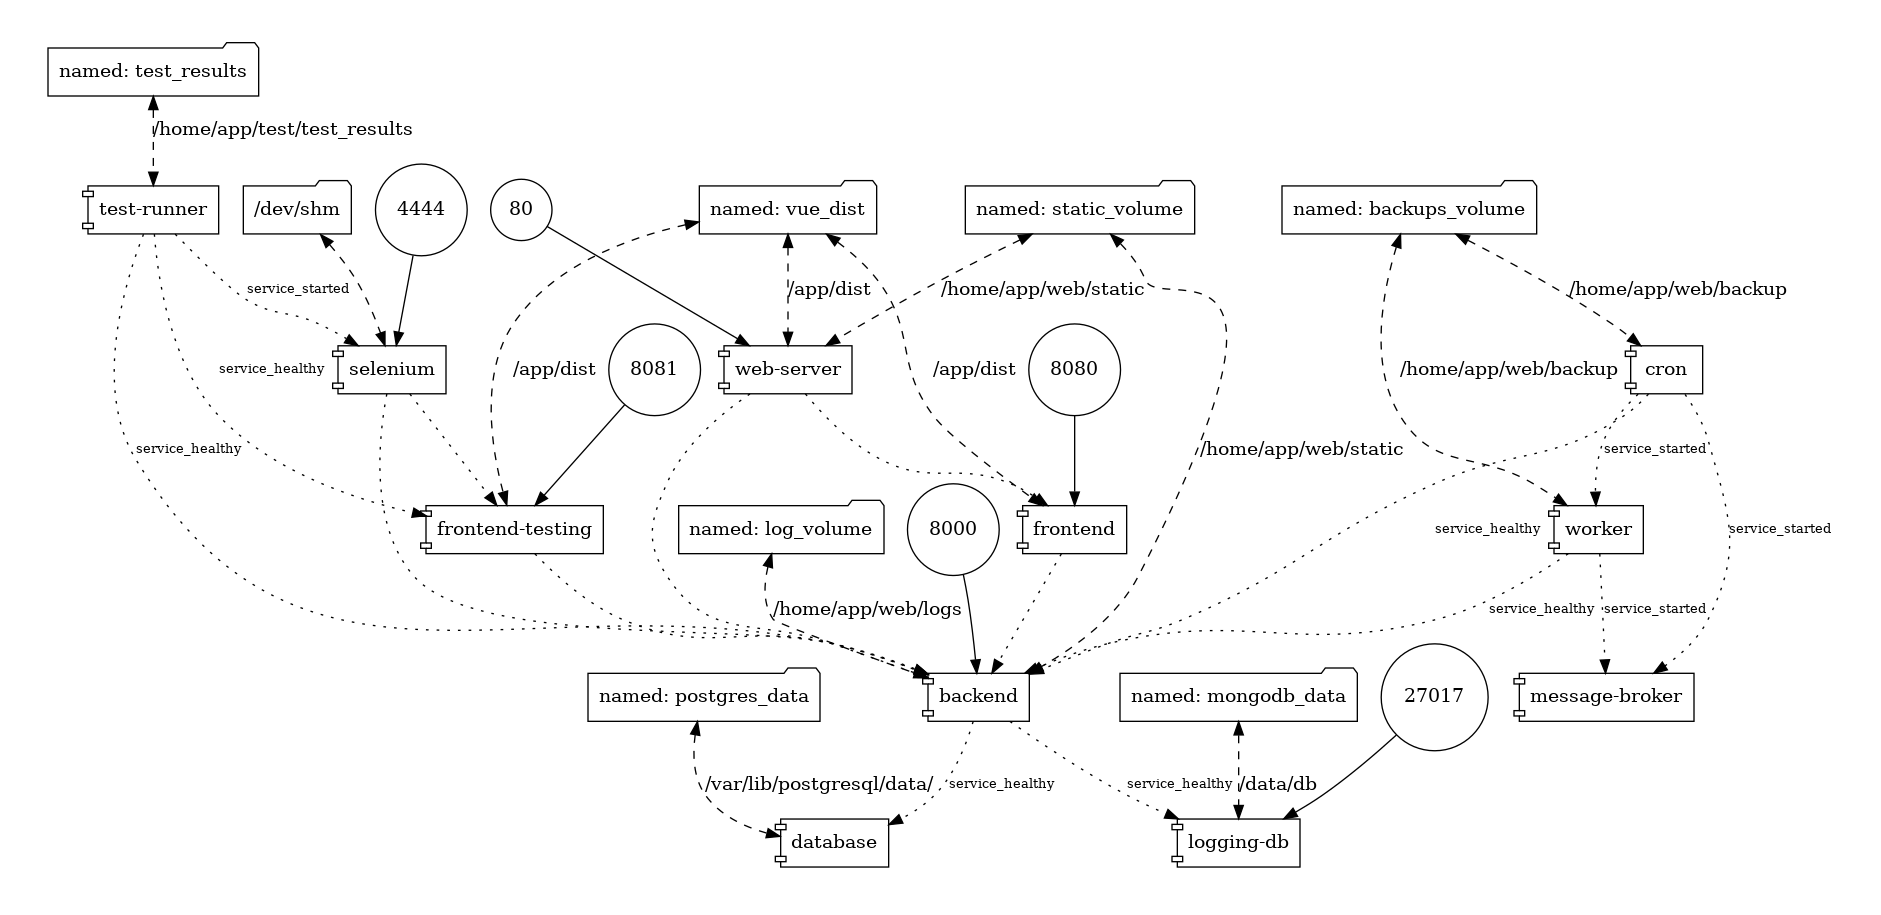
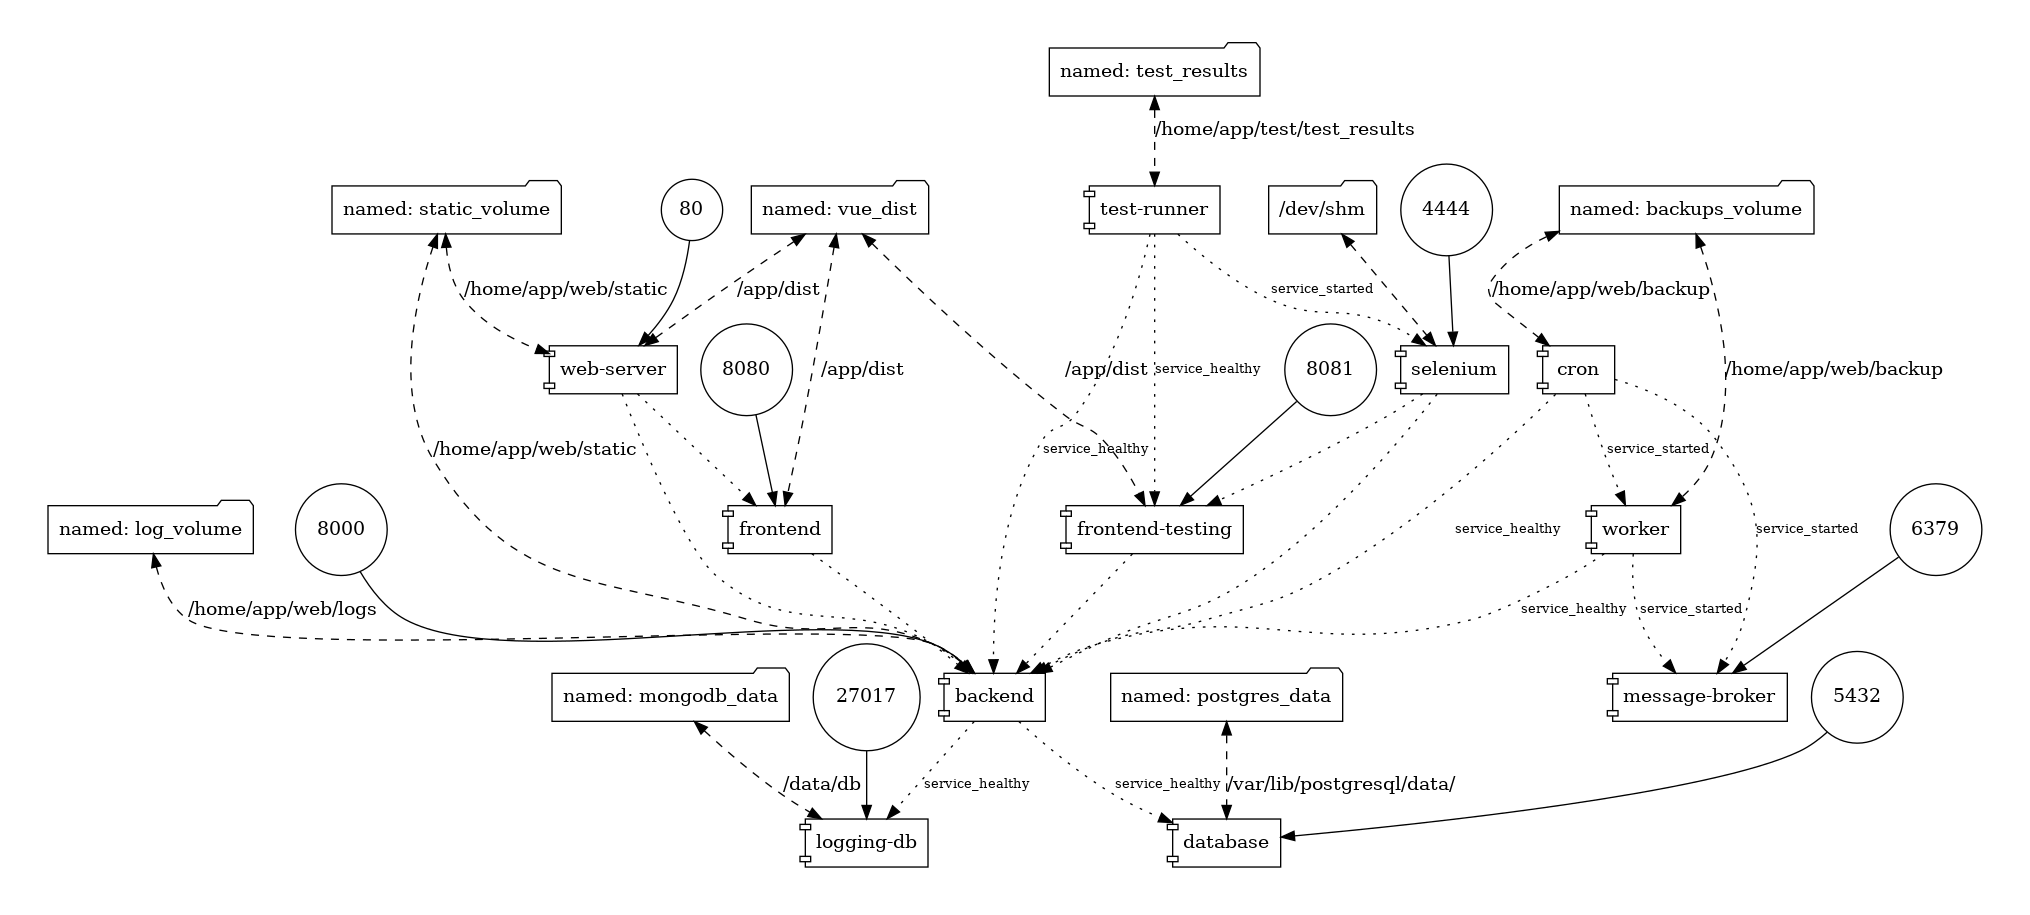
add vars to docker-compose

diff --git a/racks/racks/settings.py b/racks/racks/settings.py
@@ -28,13 +28,13 @@ DEBUG = bool(int(os.environ.get("DEBUG", default=1)))
 ALLOWED_HOSTS = os.environ.get("DJANGO_ALLOWED_HOSTS").split(" ")
 
 CORS_ALLOWED_ORIGINS = [
-    f"http://{os.environ.get('LOCALHOST')}:{os.environ.get('VUE_PORT')}",
-    f"http://{os.environ.get('LOCALHOST')}:{os.environ.get('DJANGO_PORT')}",
-    f"http://{os.environ.get('FRONTEND')}:{os.environ.get('VUE_PORT')}",
-    f"http://{os.environ.get('BACKEND')}:{os.environ.get('DJANGO_PORT')}",
-    f"http://{os.environ.get('FRONTEND')}:{os.environ.get('VUE_TEST_PORT')}",
-    f"http://{os.environ.get('LOCALHOST')}:{os.environ.get('VUE_TEST_PORT')}",
-    f"http://{os.environ.get('FRONTEND_TESTING')}:{os.environ.get('VUE_TEST_PORT')}",
+    f"http://{os.environ.get('LOCALHOST')}:{os.environ.get('FRONTEND_PORT')}",
+    f"http://{os.environ.get('LOCALHOST')}:{os.environ.get('BACKEND_PORT')}",
+    f"http://{os.environ.get('FRONTEND_HOST')}:{os.environ.get('FRONTEND_PORT')}",
+    f"http://{os.environ.get('BACKEND_HOST')}:{os.environ.get('BACKEND_PORT')}",
+    f"http://{os.environ.get('FRONTEND_HOST')}:{os.environ.get('FRONTEND_TESTING_PORT')}",
+    f"http://{os.environ.get('LOCALHOST')}:{os.environ.get('FRONTEND_TESTING_PORT')}",
+    f"http://{os.environ.get('FRONTEND_TESTING_HOST')}:{os.environ.get('FRONTEND_TESTING_PORT')}",
 ]
 
 # Application definition
@@ -105,11 +105,11 @@ LOGGING = {
         'mongolog': {
             'level': 'DEBUG',
             'class': 'mongolog.SimpleMongoLogHandler',
-            'connection': f"{os.environ.get('MONGODB')}://"
-                          f"{os.environ.get('MONGO_USER')}:"
-                          f"{os.environ.get('MONGO_PASSWORD')}@"
-                          f"{os.environ.get('MONGODB')}:"
-                          f"{os.environ.get('MONGO_PORT')}",
+            'connection': f"{os.environ.get('LOGGING_DB_HOST')}://"
+                          f"{os.environ.get('MONGO_INITDB_ROOT_USERNAME')}:"
+                          f"{os.environ.get('MONGO_INITDB_ROOT_PASSWORD')}@"
+                          f"{os.environ.get('LOGGING_DB_HOST')}:"
+                          f"{os.environ.get('LOGGING_DB_PORT')}",
             'collection': 'mongolog'
         },
     },
@@ -126,11 +126,11 @@ DATABASES = {
 
     'default': {
         'ENGINE': os.environ.get('SQL_ENGINE'),
-        'NAME': os.environ.get('SQL_DATABASE'),
-        'USER': os.environ.get('SQL_USER'),
-        'PASSWORD': os.environ.get('SQL_PASSWORD'),
-        'HOST': os.environ.get('SQL_HOST'),
-        'PORT': os.environ.get('SQL_PORT'),
+        'NAME': os.environ.get('POSTGRES_DB'),
+        'USER': os.environ.get('POSTGRES_USER'),
+        'PASSWORD': os.environ.get('POSTGRES_PASSWORD'),
+        'HOST': os.environ.get('DATABASE_HOST'),
+        'PORT': os.environ.get('DATABASE_PORT'),
         'ATOMIC_REQUESTS': True
     }
 }
@@ -184,7 +184,7 @@ USE_TZ = True
 
 STATIC_URL = '/static/'
 
-START_PAGE_URL = f"http://{os.environ.get('LOCALHOST')}:{os.environ.get('DJANGO_PORT')}/"
+START_PAGE_URL = f"http://{os.environ.get('LOCALHOST')}:{os.environ.get('BACKEND_PORT')}/"
 
 CELERY_BROKER_URL = os.environ.get('CELERY_BROKER')
 CELERY_RESULT_BACKEND = 'django-db'
@@ -192,7 +192,7 @@ CELERY_RESULT_BACKEND = 'django-db'
 CACHES = {
     'default': {
         'BACKEND': 'django.core.cache.backends.redis.RedisCache',
-        'LOCATION': 'redis://127.0.0.1:6379/1'
+        'LOCATION': f"redis://{os.environ.get('LOCALHOST')}:{os.environ.get('MESSAGE_BROKER_PORT')}/1"
     }
 }
 

diff --git a/e2e_tests/e2e_tests.py b/e2e_tests/e2e_tests.py
@@ -229,4 +229,4 @@ class E2ETestCase(unittest.TestCase):
 
 if __name__ == "__main__":
     unittest.main(testRunner=HtmlTestRunner
-                  .HTMLTestRunner(output=os.environ.get('RESULTS_PATH')))
+                  .HTMLTestRunner(output=os.environ.get('TEST_RESULTS_PATH')))
